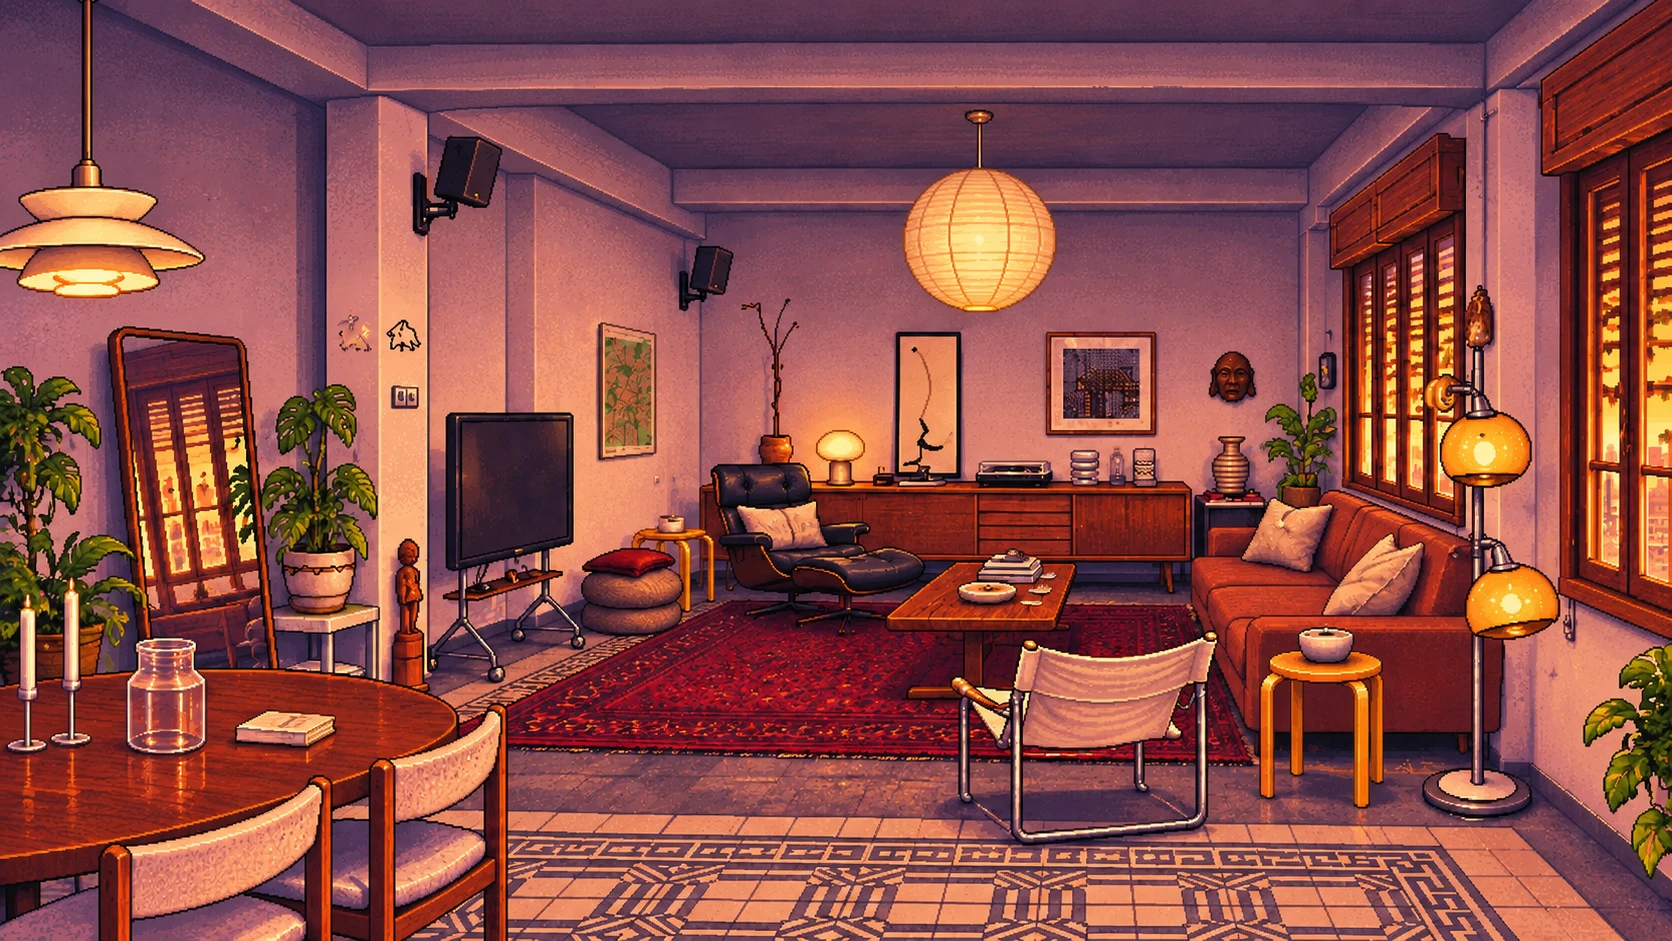
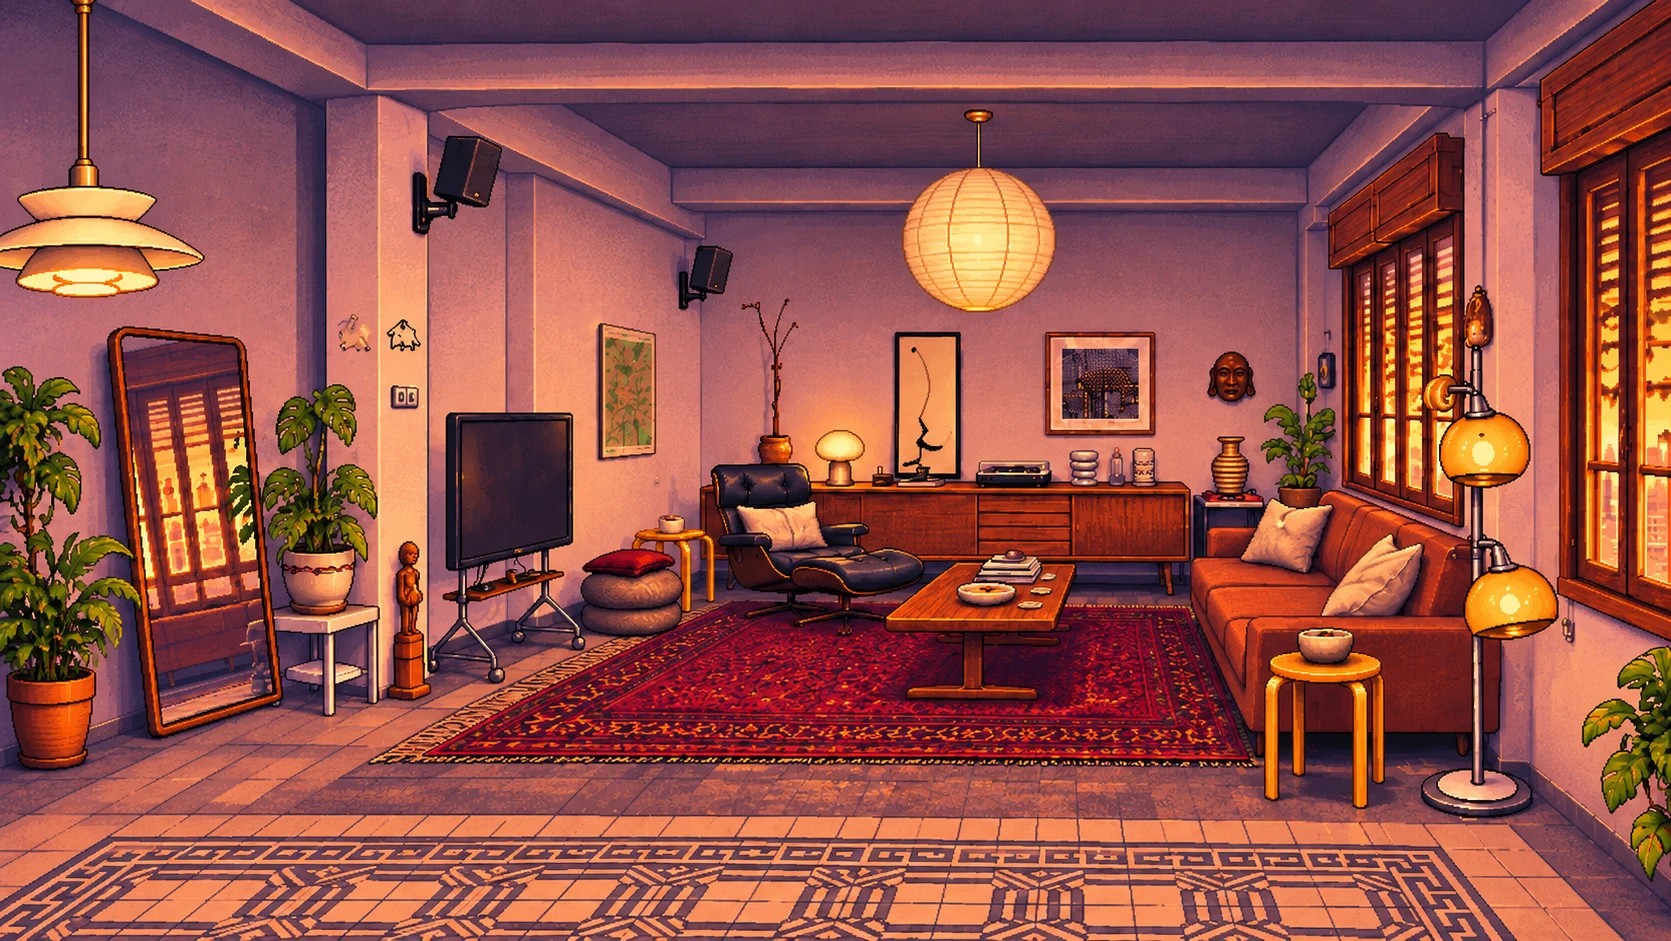
Locations: new Niv & Lele painting, rename Green Room to NADAV
Claude-Session: https://claude.ai/code/session_01Wc5yMQpxFPVDDxrL1wNdtX

diff --git a/src/render/stage.ts b/src/render/stage.ts
@@ -37,8 +37,8 @@ function paintedStage(id: string, name: string, file: string, groundY: number): 
   };
 }
 
-const livingRoom = paintedStage('living', 'Living Room', 'living_room.webp', 830);
-const greenRoom = paintedStage('green', 'Green Room', 'green_room.webp', 830);
+const livingRoom = paintedStage('living', 'Niv & Lele', 'living_room.webp', 830);
+const greenRoom = paintedStage('green', 'NADAV', 'green_room.webp', 830);
 
 /** The locations offered on the Choose Location screen. */
 export const STAGES: StageDef[] = [livingRoom, greenRoom];
